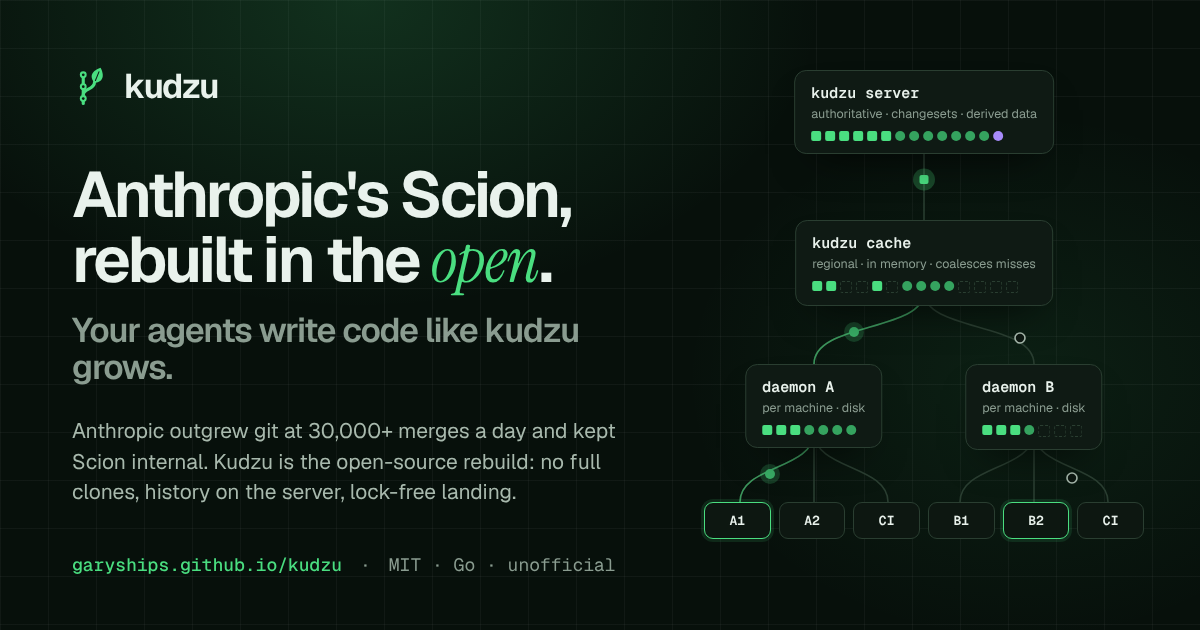
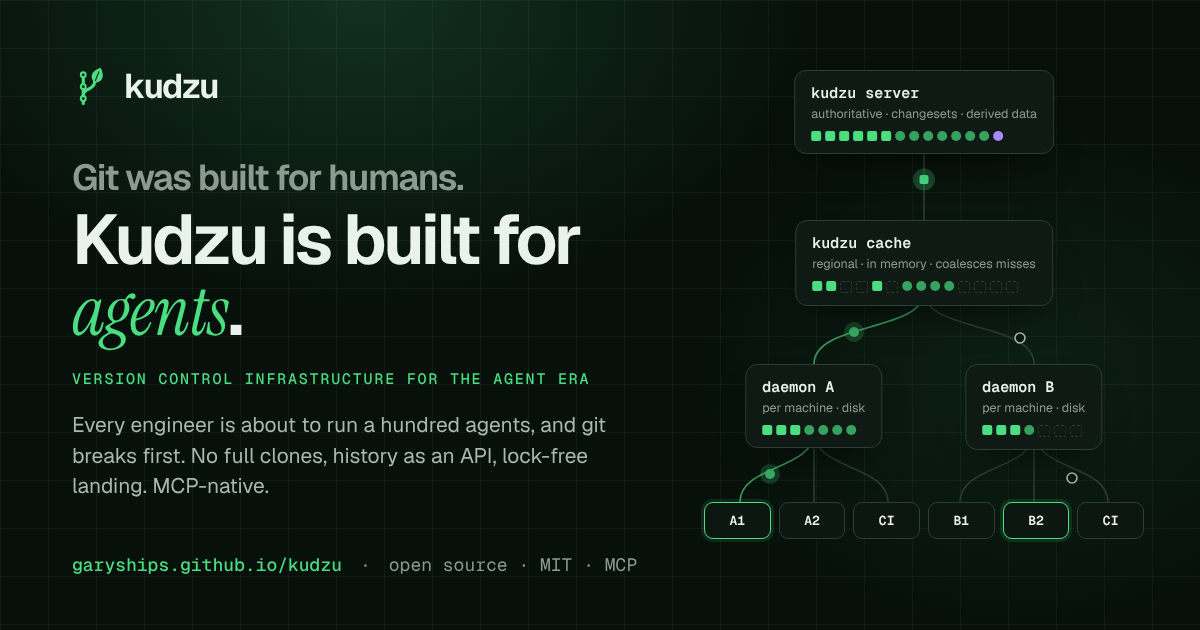
Lead with the problems agents create for git
New headline: Git was built for humans. Kudzu is built for agents.
README and site open with the four ways agent-scale work breaks git,
with Anthropic's numbers as the proof, and a new share card.

diff --git a/docs/index.html b/docs/index.html
@@ -3,8 +3,8 @@
 <head>
 <meta charset="utf-8">
 <meta name="viewport" content="width=device-width, initial-scale=1">
-<title>Kudzu — Anthropic's Scion, rebuilt in the open</title>
-<meta name="description" content="Anthropic's monorepo outgrew git at 30,000+ merges a day, so they built Scion and kept it internal. Kudzu is the open-source rebuild: no full clones, history and merges on the server, lock-free landing.">
+<title>Kudzu — Git was built for humans. Kudzu is built for agents.</title>
+<meta name="description" content="Version control infrastructure for the agent era. No full clones, history as an API, lock-free landing for thousands of concurrent agents. MCP-native, open source.">
 <meta name="theme-color" content="#07100b" media="(prefers-color-scheme: dark)">
 <meta name="theme-color" content="#f7faf6" media="(prefers-color-scheme: light)">
 <meta name="color-scheme" content="dark light">
@@ -15,17 +15,17 @@
 <meta property="og:type" content="website">
 <meta property="og:site_name" content="Kudzu">
 <meta property="og:url" content="https://garyships.github.io/kudzu/">
-<meta property="og:title" content="Kudzu — Anthropic's Scion, rebuilt in the open">
-<meta property="og:description" content="Anthropic outgrew git at 30,000+ merges a day and built Scion — then kept it internal. Kudzu rebuilds it from their write-up, open source.">
+<meta property="og:title" content="Kudzu — Git was built for humans. Kudzu is built for agents.">
+<meta property="og:description" content="Every engineer is about to run a hundred agents, and git breaks first. Kudzu is version control infrastructure for the agent era. Open source.">
 <meta property="og:image" content="https://garyships.github.io/kudzu/assets/site/og.png">
 <meta property="og:image:width" content="1200">
 <meta property="og:image:height" content="630">
-<meta property="og:image:alt" content="Kudzu: version control for agent-scale monorepos. Server, regional cache, node daemon and agents connected by a growing vine.">
+<meta property="og:image:alt" content="Kudzu. Git was built for humans. Kudzu is built for agents. Version control infrastructure for the agent era.">
 <meta name="twitter:card" content="summary_large_image">
-<meta name="twitter:title" content="Kudzu — Anthropic's Scion, rebuilt in the open">
-<meta name="twitter:description" content="Anthropic outgrew git at 30,000+ merges a day and built Scion — then kept it internal. Kudzu rebuilds it from their write-up, open source.">
+<meta name="twitter:title" content="Kudzu — Git was built for humans. Kudzu is built for agents.">
+<meta name="twitter:description" content="Every engineer is about to run a hundred agents, and git breaks first. Kudzu is version control infrastructure for the agent era. Open source.">
 <meta name="twitter:image" content="https://garyships.github.io/kudzu/assets/site/og.png">
-<meta name="twitter:image:alt" content="Kudzu: version control for agent-scale monorepos.">
+<meta name="twitter:image:alt" content="Kudzu. Git was built for humans. Kudzu is built for agents.">
 
 <link rel="preconnect" href="https://fonts.googleapis.com">
 <link rel="preconnect" href="https://fonts.gstatic.com" crossorigin>
@@ -117,18 +117,19 @@
   <div class="container hero-inner">
     <a class="pill" href="https://www.anthropic.com/engineering/redesigning-source-control">
       <span class="pill-dot" aria-hidden="true"></span>
-      Read Anthropic's post on Scion
+      Anthropic hit 30,000+ merges a day. Git couldn't keep&nbsp;up.
       <svg class="i" aria-hidden="true"><use href="#i-arrow"/></svg>
     </a>
     <h1 id="hero-title">
-      Anthropic's Scion, rebuilt in the&nbsp;<em>open</em>.
-      <span class="h1-sub">Your agents write code like kudzu&nbsp;grows.</span>
+      <span class="h1-pre">Git was built for humans.</span>
+      Kudzu is built for&nbsp;<em>agents</em>.
     </h1>
+    <p class="hero-kicker">Version control infrastructure for the agent era</p>
     <p class="hero-lead">
-      Anthropic's monorepo outgrew git at 30,000+ merges a day, so they built Scion, and kept it internal.
-      <strong>Kudzu rebuilds it from their write-up, in the open.</strong>
-      Clients never clone the whole repo: they ask for exactly the objects they want through tiered caches.
-      History, blame, diffs and merges run on the server, and changes land without a lock.
+      Every engineer is about to run a hundred agents. They clone, commit and merge around the clock, all at once,
+      and git is the first thing to break.
+      <strong>Kudzu rebuilds version control as infrastructure:</strong>
+      agents fetch only what they touch, history is an API, and thousands of changes land without a lock.
     </p>
     <div class="cta">
       <a class="btn btn-primary" href="https://github.com/garyships/kudzu">
@@ -140,9 +141,7 @@
       </a>
     </div>
     <p class="hero-note">
-      Rebuilt from Anthropic's engineering post the day after it was published.
-      <a href="https://www.anthropic.com/engineering/redesigning-source-control">Read the article</a>.
-      Unofficial; not affiliated with Anthropic.
+      Open source, MIT · one Go binary · 16 MCP tools built in
     </p>
   </div>
 
@@ -171,18 +170,41 @@
   <div class="container">
     <header class="section-head">
       <p class="eyebrow"><span>01</span> The problem</p>
-      <h2 id="problem-title">Git was built for people who go offline. Agents never&nbsp;do.</h2>
+      <h2 id="problem-title">The agent era breaks git in four&nbsp;places.</h2>
       <p class="lead">
-        Every git clone is a full replica: all of history, packed and maintained on every machine.
-        That's perfect for a laptop on a plane. It turns into a bottleneck when most clients are
-        always-online agents and CI jobs, all landing into one monorepo.
+        Git gives every clone a full replica of history, so one person on a laptop can work offline.
+        Agents are never offline, and there are about to be thousands of them per repo. Every one of
+        git's assumptions turns into a bottleneck.
       </p>
     </header>
 
+    <div class="breaks">
+      <article class="break" data-reveal>
+        <h3><span class="break-ico" aria-hidden="true">🌪</span>Clone storm</h3>
+        <p class="break-git"><b>Git</b>Every agent sandbox and CI job pulls the entire repo and all of its history.</p>
+        <p class="break-kz"><b>Kudzu</b>Clients fetch only the objects they touch, through tiered caches. 50 identical cold requests become 1 upstream request.</p>
+      </article>
+      <article class="break" data-reveal>
+        <h3><span class="break-ico" aria-hidden="true">🚦</span>Merge jam</h3>
+        <p class="break-git"><b>Git</b>Thousands of agents race for main. Merge queues lock, pushes bounce, everyone rebases and retries.</p>
+        <p class="break-kz"><b>Kudzu</b>The server rebases and lands with a compare-and-swap on the ref. No lock, no queue, no push.</p>
+      </article>
+      <article class="break" data-reveal>
+        <h3><span class="break-ico" aria-hidden="true">🔒</span>History trapped in clones</h3>
+        <p class="break-git"><b>Git</b>To ask “who changed this line?”, an agent has to check out the repo first.</p>
+        <p class="break-kz"><b>Kudzu</b>Log, blame and diff are server APIs, and 16 MCP tools your agent can call.</p>
+      </article>
+      <article class="break" data-reveal>
+        <h3><span class="break-ico" aria-hidden="true">🪞</span>Mirror sprawl</h3>
+        <p class="break-git"><b>Git</b>Hundreds of mirrors, each a full copy, each needing repack and gc.</p>
+        <p class="break-kz"><b>Kudzu</b>Immutable, content-addressed objects behind cache tiers. No packfiles, no maintenance.</p>
+      </article>
+    </div>
+
     <div class="scale" data-reveal>
       <div class="scale-head">
-        <h3>What agent scale looked like at Anthropic</h3>
-        <p class="source">Figures from Anthropic's article <a href="https://www.anthropic.com/engineering/redesigning-source-control">“Redesigning source control at Anthropic”</a> (Oct&nbsp;2026), about their internal system Scion. They are not Kudzu measurements.</p>
+        <h3>Not hypothetical: it already happened at Anthropic</h3>
+        <p class="source">Figures from Anthropic's article <a href="https://www.anthropic.com/engineering/redesigning-source-control">“Redesigning source control at Anthropic”</a> (Oct&nbsp;2026), about Scion, the system they built to replace git. Kudzu builds that architecture in the open.</p>
       </div>
       <div class="scale-grid">
         <div class="tile tile-feature">
@@ -777,7 +799,7 @@ kudzu diff --from main~3 --to main --stat</code></pre></div>
   <div class="container">
     <header class="section-head">
       <p class="eyebrow"><span>09</span> Roadmap</p>
-      <h2 id="roadmap-title">Early, and honest about&nbsp;it.</h2>
+      <h2 id="roadmap-title">What’s next. Come build&nbsp;it.</h2>
       <p class="lead">Kudzu is a working prototype with tests end to end. These pieces are not built yet.</p>
     </header>
     <ul class="roadmap">
@@ -788,7 +810,8 @@ kudzu diff --from main~3 --to main --stat</code></pre></div>
       <li><span class="rm-dot" aria-hidden="true"></span><h3>Export back to git</h3><p>Import from git works, incrementally. Syncing back the other way doesn't yet.</p></li>
     </ul>
     <div class="final-cta">
-      <p>Kudzu is MIT licensed. Issues, ideas and pull requests are welcome.</p>
+      <p class="final-cta-title">The agent era needs new infrastructure.</p>
+      <p>Kudzu is MIT licensed. Star it, try it on your repo, and send issues, ideas and pull requests.</p>
       <div class="cta">
         <a class="btn btn-primary" href="https://github.com/garyships/kudzu"><svg class="i" aria-hidden="true"><use href="#i-github"/></svg>Star on GitHub</a>
         <a class="btn btn-secondary" href="https://github.com/garyships/kudzu/blob/main/docs/DESIGN.md">Read the design doc</a>
@@ -805,7 +828,7 @@ kudzu diff --from main~3 --to main --stat</code></pre></div>
       <a class="brand" href="#top" aria-label="Kudzu, back to top">
         <svg class="brand-mark" aria-hidden="true"><use href="#i-logo"/></svg><span>kudzu</span>
       </a>
-      <p>Open-source version control for agent-scale monorepos.</p>
+      <p>Version control infrastructure for the agent era.</p>
     </div>
     <nav class="footer-links" aria-label="Footer">
       <a href="https://github.com/garyships/kudzu">GitHub</a>
@@ -814,10 +837,9 @@ kudzu diff --from main~3 --to main --stat</code></pre></div>
       <a href="https://www.anthropic.com/engineering/redesigning-source-control">Anthropic's article</a>
     </nav>
     <p class="disclaimer">
-      Kudzu is an unofficial, open-source rebuild of the system Anthropic described in
-      <a href="https://www.anthropic.com/engineering/redesigning-source-control">“Redesigning source control at Anthropic”</a>.
-      It is not affiliated with or endorsed by Anthropic and contains no Anthropic code.
-      Figures attributed to that article are Anthropic's, not Kudzu's.
+      Independent open-source project. Architecture based on Anthropic's public write-up of Scion,
+      <a href="https://www.anthropic.com/engineering/redesigning-source-control">“Redesigning source control at Anthropic”</a>,
+      which is also the source of the Anthropic figures on this page.
     </p>
   </div>
 </footer>

diff --git a/docs/assets/site/style.css b/docs/assets/site/style.css
@@ -282,6 +282,30 @@ h1 em {
 .cta { display: flex; flex-wrap: wrap; gap: 12px; justify-content: center; margin-top: 36px; }
 .hero-note { margin-top: 22px; font-size: 13.5px; color: var(--text-3); max-width: 600px; text-wrap: balance; }
 .hero-note a { color: var(--text-2); }
+.h1-pre { display: block; color: var(--text-3); font-size: .5em; letter-spacing: -.035em; line-height: 1.1; margin-bottom: .18em; }
+.hero-kicker {
+  margin-top: 22px; font-family: var(--font-mono); font-size: 13px; font-weight: 500;
+  letter-spacing: .14em; text-transform: uppercase; color: var(--accent);
+}
+.hero-kicker::before, .hero-kicker::after { content: ""; display: inline-block; width: 22px; height: 1px; background: var(--accent-line); vertical-align: middle; margin: 0 12px; }
+
+.breaks { display: grid; grid-template-columns: repeat(2, 1fr); gap: 16px; margin-bottom: 56px; }
+.break { background: var(--surface); border: 1px solid var(--border); border-radius: var(--radius-lg); padding: 24px 24px 22px; }
+.break h3 { display: flex; align-items: center; gap: 10px; font-size: 1.2rem; letter-spacing: -.025em; margin-bottom: 16px; }
+.break-ico { font-size: 1.25rem; line-height: 1; }
+.break p { font-size: 14.5px; line-height: 1.55; padding-left: 14px; }
+.break p b { display: block; font-family: var(--font-mono); font-size: 11.5px; font-weight: 600; letter-spacing: .1em; text-transform: uppercase; margin-bottom: 2px; }
+.break-git { color: var(--text-2); border-left: 2px solid var(--danger); }
+.break-git b { color: var(--danger); }
+.break-kz { margin-top: 12px; color: var(--text); border-left: 2px solid var(--accent-fill); }
+.break-kz b { color: var(--accent); }
+@media (max-width: 760px) { .breaks { grid-template-columns: 1fr; } .break { padding: 20px; } }
+@media (max-width: 560px) {
+  .hero-kicker { font-size: 11.5px; letter-spacing: .1em; }
+  .hero-kicker::before, .hero-kicker::after { display: none; }
+  .pill { font-size: 12.5px; gap: 8px; }
+}
+.final-cta p.final-cta-title { font-size: clamp(1.4rem, 1.1rem + 1.2vw, 2rem); font-weight: 640; letter-spacing: -.035em; color: var(--text); margin-bottom: 8px; }
 
 /* terminal */
 .terminal {
@@ -811,7 +835,7 @@ html.js .tradeoff:not(.in) .sbar-fill { transform: scaleX(0); }
 @media (max-width: 1000px) { .roadmap { grid-template-columns: repeat(2, 1fr); } }
 @media (max-width: 560px) { .roadmap { grid-template-columns: 1fr; } }
 .final-cta { margin-top: 64px; padding: 40px 28px; border-radius: var(--radius-lg); text-align: center; border: 1px solid var(--accent-line); background: radial-gradient(70% 120% at 50% 0%, var(--accent-soft), transparent 70%), var(--surface); }
-.final-cta p { font-size: 1.15rem; color: var(--text); font-weight: 500; letter-spacing: -.01em; }
+.final-cta p { font-size: 1.15rem; color: var(--text-2); font-weight: 500; letter-spacing: -.01em; }
 .final-cta .cta { margin-top: 22px; }
 
 /* ---------- footer ---------- */

diff --git a/README.md b/README.md
@@ -4,11 +4,10 @@
 
 # Kudzu
 
-### Anthropic's monorepo outgrew git at 30,000+ merges a day, so they built Scion and kept it internal.<br/>Kudzu is the open-source rebuild.
+### Git was built for humans. Kudzu is built for agents.
 
-Version control for monorepos where your committers are AI agents.<br/>
-Rebuilt from Anthropic's [engineering post](https://www.anthropic.com/engineering/redesigning-source-control) the day after it was published.<br/>
-*Your agents write code like kudzu grows. Your version control should keep up.*
+**Version control infrastructure for the agent era.**<br/>
+No full clones. History as an API. Lock-free landing for thousands of concurrent agents. MCP-native.
 
 [![release](https://img.shields.io/github/v/release/garyships/kudzu?color=3fb950)](https://github.com/garyships/kudzu/releases)
 [![ci](https://github.com/garyships/kudzu/actions/workflows/ci.yml/badge.svg)](https://github.com/garyships/kudzu/actions/workflows/ci.yml)
@@ -20,9 +19,22 @@ Rebuilt from Anthropic's [engineering post](https://www.anthropic.com/engineerin
 
 <img src="docs/assets/demo.gif" alt="Kudzu demo: import git history, sparse clone, concurrent lock-free lands" width="860">
 
-<sub>⭐ If you want agent-scale version control built in the open, star the repo. It's how other people find it.</sub>
+<sub>⭐ Agents are about to outnumber the engineers who run them. If you think source control should be ready, star the repo.</sub>
 
 </div>
+
+## Agents break git
+
+Every engineer is about to run a hundred agents. They clone, commit and merge around the clock, all at once. Git was designed for one person on a laptop, and it breaks first:
+
+| | What breaks | What Kudzu does |
+|---|---|---|
+| 🌪 **Clone storm** | Every agent sandbox and CI job pulls the entire repo and all of its history. | Clients fetch only the objects they touch, through tiered caches. 50 identical cold requests become 1 upstream request. |
+| 🚦 **Merge jam** | Thousands of agents race for `main`. Merge queues take a lock, pushes bounce, and everyone rebases and retries. | The server rebases and lands with a compare-and-swap on the ref. No lock, no queue, no push. |
+| 🔒 **History trapped in clones** | To ask "who changed this line?", an agent has to check out the repo first. | `log`, `blame` and `diff` are server APIs and [16 MCP tools](#-version-control-your-agent-can-drive). |
+| 🪞 **Mirror sprawl** | Hundreds of mirrors, each a full copy, each needing repack and gc. | Immutable, content-addressed objects behind cache tiers. No packfiles, no maintenance. |
+
+**This isn't hypothetical.** Anthropic's monorepo went from ~2,500 to 30,000+ merges a day in four months, and git couldn't keep up. They replaced it with an internal system, Scion, and [published the design](https://www.anthropic.com/engineering/redesigning-source-control). Kudzu builds that architecture in the open, for everyone. The first version shipped the day after the post.
 
 ## Try it in 60 seconds
 
@@ -66,9 +78,7 @@ Then just ask:
 
 Setup for Cursor, Claude Desktop and other clients: [docs/AI.md](docs/AI.md). There is also [`llms.txt`](https://garyships.github.io/kudzu/llms.txt) for LLMs.
 
-## Why not git?
-
-git gives every clone the whole repository so it can work offline. That's the wrong trade when nearly every client is an always-online agent and a monorepo merges tens of thousands of changes a day. Kudzu moves the heavy lifting to the server and lets clients fetch only what they need.
+## Kudzu vs git
 
 | | git | Kudzu |
 |---|---|---|
@@ -195,7 +205,7 @@ Contributions are welcome. Pick up a [help-wanted issue](https://github.com/gary
 
 ## License
 
-MIT. Kudzu is an unofficial rebuild of the system described in Anthropic's public post [Redesigning source control at Anthropic](https://www.anthropic.com/engineering/redesigning-source-control). It is not affiliated with or endorsed by Anthropic and contains no Anthropic code.
+MIT. Independent open-source project. Architecture based on Anthropic's public write-up of Scion, [Redesigning source control at Anthropic](https://www.anthropic.com/engineering/redesigning-source-control).
 
 ---
 
